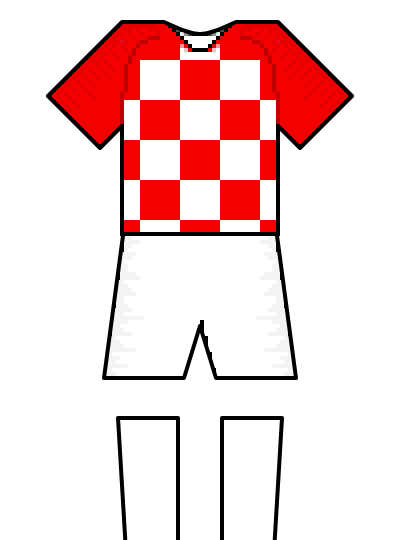
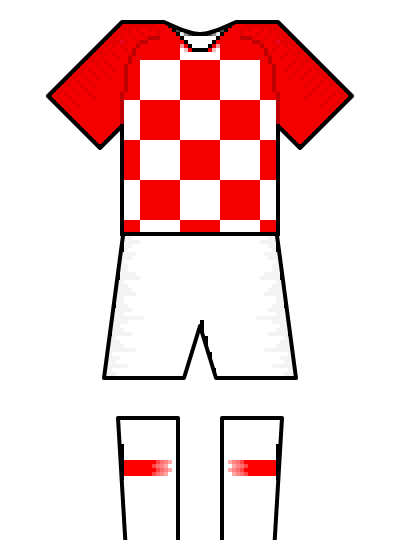
Place shorter socks patterns at the top of the socks area, as the template does
Claude-Session: https://claude.ai/code/session_019gbuJGYaZ4pQBD5fAWM6oT

Changed region(s): [[0.57, 0.8296, 0.72, 0.8889], [0.3, 0.8296, 0.42, 0.8889]]

diff --git a/public/data/kits.js b/public/data/kits.js
@@ -39,7 +39,7 @@ window.HALFTIME_KITS = [
     matches: ["1930-world-cup-final"],
     coloursSource: "Wikipedia, \"1930 FIFA World Cup final\" (revision 1370476710), CC BY-SA 4.0",
     coloursUrl: "https://en.wikipedia.org/w/index.php?title=1930_FIFA_World_Cup_final&oldid=1370476710",
-    illustration: { file: "argentina-1930.png", credit: "Drawn after the kit shown in Wikipedia’s \"1930 FIFA World Cup final\" article. Pattern pictures from Wikimedia Commons: Kit left arm white stripes.png (CC BY-SA 3.0); Kit body 3stripesonwhite.png (CC BY-SA 3.0); Kit right arm white stripes.png (CC BY-SA 3.0). Outline: Wikimedia Commons kit template drawings." }
+    illustration: { file: "argentina-1930.png", credit: "Drawn after the kit shown in Wikipedia’s \"1930 FIFA World Cup final\" article. Pattern pictures from Wikimedia Commons: Kit left arm white stripes.png (CC BY-SA 3.0); Kit body 3stripesonwhite.png (CC BY-SA 3.0); Kit right arm white stripes.png (CC BY-SA 3.0); Kit socks white bands.png (CC BY-SA 3.0, VEO15). Outline: Wikimedia Commons kit template drawings." }
   },
   {
     id: "uruguay-1930",
@@ -54,7 +54,7 @@ window.HALFTIME_KITS = [
     matches: ["1930-world-cup-final"],
     coloursSource: "Wikipedia, \"1930 FIFA World Cup final\" (revision 1370476710), CC BY-SA 4.0",
     coloursUrl: "https://en.wikipedia.org/w/index.php?title=1930_FIFA_World_Cup_final&oldid=1370476710",
-    illustration: { file: "uruguay-1930.png", credit: "Drawn after the kit shown in Wikipedia’s \"1930 FIFA World Cup final\" article. Pattern pictures from Wikimedia Commons: Kit left arm whiteborder.png (CC BY-SA 3.0); Kit body collarwhite laced.png (CC BY-SA 4.0, Fma12); Kit right arm whiteborder.png (CC BY-SA 3.0). Outline: Wikimedia Commons kit template drawings." }
+    illustration: { file: "uruguay-1930.png", credit: "Drawn after the kit shown in Wikipedia’s \"1930 FIFA World Cup final\" article. Pattern pictures from Wikimedia Commons: Kit left arm whiteborder.png (CC BY-SA 3.0); Kit body collarwhite laced.png (CC BY-SA 4.0, Fma12); Kit right arm whiteborder.png (CC BY-SA 3.0); Kit socks white bands.png (CC BY-SA 3.0, VEO15). Outline: Wikimedia Commons kit template drawings." }
   },
   {
     id: "czechoslovakia-1934",
@@ -84,7 +84,7 @@ window.HALFTIME_KITS = [
     matches: ["1934-world-cup-final"],
     coloursSource: "Wikipedia, \"1934 FIFA World Cup final\" (revision 1370476727), CC BY-SA 4.0",
     coloursUrl: "https://en.wikipedia.org/w/index.php?title=1934_FIFA_World_Cup_final&oldid=1370476727",
-    illustration: { file: "italy-1934.png", credit: "Drawn after the kit shown in Wikipedia’s \"1934 FIFA World Cup final\" article. Pattern pictures from Wikimedia Commons: Kit left arm Italia1927-1943h.png (CC BY-SA 4.0, Romano1979); Kit body colour vneck.png (CC0, KoreanDragon); Kit right arm Italia1927-1943h.png (CC BY-SA 4.0, Romano1979); Kit shorts Italiah.png (CC BY-SA 4.0, Romano1979). Outline: Wikimedia Commons kit template drawings." }
+    illustration: { file: "italy-1934.png", credit: "Drawn after the kit shown in Wikipedia’s \"1934 FIFA World Cup final\" article. Pattern pictures from Wikimedia Commons: Kit left arm Italia1927-1943h.png (CC BY-SA 4.0, Romano1979); Kit body colour vneck.png (CC0, KoreanDragon); Kit right arm Italia1927-1943h.png (CC BY-SA 4.0, Romano1979); Kit shorts Italiah.png (CC BY-SA 4.0, Romano1979); Kit socks Italia1927-1943h.png (CC BY-SA 4.0, Romano1979). Outline: Wikimedia Commons kit template drawings." }
   },
   {
     id: "hungary-1938",
@@ -114,7 +114,7 @@ window.HALFTIME_KITS = [
     matches: ["1938-world-cup-final"],
     coloursSource: "Wikipedia, \"1938 FIFA World Cup final\" (revision 1370476759), CC BY-SA 4.0",
     coloursUrl: "https://en.wikipedia.org/w/index.php?title=1938_FIFA_World_Cup_final&oldid=1370476759",
-    illustration: { file: "italy-1938.png", credit: "Drawn after the kit shown in Wikipedia’s \"1938 FIFA World Cup final\" article. Pattern pictures from Wikimedia Commons: Kit left arm Italia1927-1943h.png (CC BY-SA 4.0, Romano1979); Kit body colour vneck.png (CC0, KoreanDragon); Kit right arm Italia1927-1943h.png (CC BY-SA 4.0, Romano1979); Kit shorts Italiah.png (CC BY-SA 4.0, Romano1979). Outline: Wikimedia Commons kit template drawings." }
+    illustration: { file: "italy-1938.png", credit: "Drawn after the kit shown in Wikipedia’s \"1938 FIFA World Cup final\" article. Pattern pictures from Wikimedia Commons: Kit left arm Italia1927-1943h.png (CC BY-SA 4.0, Romano1979); Kit body colour vneck.png (CC0, KoreanDragon); Kit right arm Italia1927-1943h.png (CC BY-SA 4.0, Romano1979); Kit shorts Italiah.png (CC BY-SA 4.0, Romano1979); Kit socks Italia1927-1943h.png (CC BY-SA 4.0, Romano1979). Outline: Wikimedia Commons kit template drawings." }
   },
   {
     id: "brazil-1950",
@@ -144,7 +144,7 @@ window.HALFTIME_KITS = [
     matches: ["1950-world-cup-final"],
     coloursSource: "Wikipedia, \"Uruguay v Brazil (1950 FIFA World Cup)\" (revision 1370476799), CC BY-SA 4.0",
     coloursUrl: "https://en.wikipedia.org/w/index.php?title=Uruguay_v_Brazil_(1950_FIFA_World_Cup)&oldid=1370476799",
-    illustration: { file: "uruguay-1950.png", credit: "Drawn after the kit shown in Wikipedia’s \"Uruguay v Brazil (1950 FIFA World Cup)\" article. Pattern pictures from Wikimedia Commons: Kit left arm whiteborder.png (CC BY-SA 3.0); Kit body vneckwhite.png (Public domain, No machine-readable author provided.); Kit right arm whiteborder.png (CC BY-SA 3.0). Outline: Wikimedia Commons kit template drawings." }
+    illustration: { file: "uruguay-1950.png", credit: "Drawn after the kit shown in Wikipedia’s \"Uruguay v Brazil (1950 FIFA World Cup)\" article. Pattern pictures from Wikimedia Commons: Kit left arm whiteborder.png (CC BY-SA 3.0); Kit body vneckwhite.png (Public domain, No machine-readable author provided.); Kit right arm whiteborder.png (CC BY-SA 3.0); Kit socks skybluetop.png (CC BY-SA 3.0, MEDM). Outline: Wikimedia Commons kit template drawings." }
   },
   {
     id: "hungary-1954",
@@ -159,7 +159,7 @@ window.HALFTIME_KITS = [
     matches: ["1954-world-cup-final"],
     coloursSource: "Wikipedia, \"1954 FIFA World Cup final\" (revision 1373704546), CC BY-SA 4.0",
     coloursUrl: "https://en.wikipedia.org/w/index.php?title=1954_FIFA_World_Cup_final&oldid=1373704546",
-    illustration: { file: "hungary-1954.png", credit: "Drawn after the kit shown in Wikipedia’s \"1954 FIFA World Cup final\" article. Pattern pictures from Wikimedia Commons: Kit body hun 1949 1956 home.png (CC BY-SA 3.0, Brgesto). Outline: Wikimedia Commons kit template drawings." }
+    illustration: { file: "hungary-1954.png", credit: "Drawn after the kit shown in Wikipedia’s \"1954 FIFA World Cup final\" article. Pattern pictures from Wikimedia Commons: Kit body hun 1949 1956 home.png (CC BY-SA 3.0, Brgesto); Kit socks whitestripe.png (CC BY-SA 3.0, El_Pollo_Diablo). Outline: Wikimedia Commons kit template drawings." }
   },
   {
     id: "west-germany-1954",
@@ -174,7 +174,7 @@ window.HALFTIME_KITS = [
     matches: ["1954-world-cup-final"],
     coloursSource: "Wikipedia, \"1954 FIFA World Cup final\" (revision 1373704546), CC BY-SA 4.0",
     coloursUrl: "https://en.wikipedia.org/w/index.php?title=1954_FIFA_World_Cup_final&oldid=1373704546",
-    illustration: { file: "west-germany-1954.png", credit: "Drawn after the kit shown in Wikipedia’s \"1954 FIFA World Cup final\" article. Pattern pictures from Wikimedia Commons: Kit left arm blackborder.png (Public domain, No machine-readable author provided.); Kit body ger54h.png (CC BY-SA 4.0, KoreanDragon); Kit right arm blackborder.png (Public domain, No machine-readable author provided.). Outline: Wikimedia Commons kit template drawings." }
+    illustration: { file: "west-germany-1954.png", credit: "Drawn after the kit shown in Wikipedia’s \"1954 FIFA World Cup final\" article. Pattern pictures from Wikimedia Commons: Kit left arm blackborder.png (Public domain, No machine-readable author provided.); Kit body ger54h.png (CC BY-SA 4.0, KoreanDragon); Kit right arm blackborder.png (Public domain, No machine-readable author provided.); Kit socks band white.png (CC BY-SA 3.0, Bruno-ban). Outline: Wikimedia Commons kit template drawings." }
   },
   {
     id: "brazil-1958",
@@ -204,7 +204,7 @@ window.HALFTIME_KITS = [
     matches: ["1958-world-cup-final"],
     coloursSource: "Wikipedia, \"1958 FIFA World Cup final\" (revision 1370476889), CC BY-SA 4.0",
     coloursUrl: "https://en.wikipedia.org/w/index.php?title=1958_FIFA_World_Cup_final&oldid=1370476889",
-    illustration: { file: "sweden-1958.png", credit: "Drawn after the kit shown in Wikipedia’s \"1958 FIFA World Cup final\" article. Pattern pictures from Wikimedia Commons: Kit body swe58h.png (CC0, KoreanDragon). Outline: Wikimedia Commons kit template drawings." }
+    illustration: { file: "sweden-1958.png", credit: "Drawn after the kit shown in Wikipedia’s \"1958 FIFA World Cup final\" article. Pattern pictures from Wikimedia Commons: Kit body swe58h.png (CC0, KoreanDragon); Kit socks yellowtop.png (CC BY-SA 3.0, Luxusfrosch). Outline: Wikimedia Commons kit template drawings." }
   },
   {
     id: "brazil-1962",
@@ -294,7 +294,7 @@ window.HALFTIME_KITS = [
     matches: ["1970-world-cup-final"],
     coloursSource: "Wikipedia, \"1970 FIFA World Cup final\" (revision 1378370769), CC BY-SA 4.0",
     coloursUrl: "https://en.wikipedia.org/w/index.php?title=1970_FIFA_World_Cup_final&oldid=1378370769",
-    illustration: { file: "italy-1970.png", credit: "Drawn after the kit shown in Wikipedia’s \"1970 FIFA World Cup final\" article. Pattern pictures from Wikimedia Commons: Kit body ita70h.png (CC0, KoreanDragon). Outline: Wikimedia Commons kit template drawings." }
+    illustration: { file: "italy-1970.png", credit: "Drawn after the kit shown in Wikipedia’s \"1970 FIFA World Cup final\" article. Pattern pictures from Wikimedia Commons: Kit body ita70h.png (CC0, KoreanDragon); Kit socks 2whitestripes.png (CC BY-SA 3.0, El_Pollo_Diablo). Outline: Wikimedia Commons kit template drawings." }
   },
   {
     id: "netherlands-1974",
@@ -309,7 +309,7 @@ window.HALFTIME_KITS = [
     matches: ["1974-world-cup-final"],
     coloursSource: "Wikipedia, \"1974 FIFA World Cup final\" (revision 1376222563), CC BY-SA 4.0",
     coloursUrl: "https://en.wikipedia.org/w/index.php?title=1974_FIFA_World_Cup_final&oldid=1376222563",
-    illustration: { file: "netherlands-1974.png", credit: "Drawn after the kit shown in Wikipedia’s \"1974 FIFA World Cup final\" article. Pattern pictures from Wikimedia Commons: Kit left arm netherlands80h.png (CC BY-SA 4.0, Zotteteen1); Kit body ned74h.png (CC0, KoreanDragon); Kit right arm netherlands80h.png (CC BY-SA 4.0, Zotteteen1); Kit shorts adidasonwhite.png (Public domain, Kanchelskis). Outline: Wikimedia Commons kit template drawings." }
+    illustration: { file: "netherlands-1974.png", credit: "Drawn after the kit shown in Wikipedia’s \"1974 FIFA World Cup final\" article. Pattern pictures from Wikimedia Commons: Kit left arm netherlands80h.png (CC BY-SA 4.0, Zotteteen1); Kit body ned74h.png (CC0, KoreanDragon); Kit right arm netherlands80h.png (CC BY-SA 4.0, Zotteteen1); Kit shorts adidasonwhite.png (Public domain, Kanchelskis); Kit socks color 3 stripes black.png (CC BY-SA 3.0, Bruno-ban). Outline: Wikimedia Commons kit template drawings." }
   },
   {
     id: "west-germany-1974",
@@ -339,7 +339,7 @@ window.HALFTIME_KITS = [
     matches: ["1978-world-cup-final"],
     coloursSource: "Wikipedia, \"1978 FIFA World Cup final\" (revision 1376299383), CC BY-SA 4.0",
     coloursUrl: "https://en.wikipedia.org/w/index.php?title=1978_FIFA_World_Cup_final&oldid=1376299383",
-    illustration: { file: "argentina-1978.png", credit: "Drawn after the kit shown in Wikipedia’s \"1978 FIFA World Cup final\" article. Pattern pictures from Wikimedia Commons: Kit left arm arg7879h.png (CC BY-SA 4.0, Lucas.st); Kit body arg7879h.png (CC BY-SA 4.0, Lucas.st); Kit right arm arg7879h.png (CC BY-SA 4.0, Lucas.st); Kit shorts arg7879h.png (CC BY-SA 4.0, Lucas.st). Outline: Wikimedia Commons kit template drawings." }
+    illustration: { file: "argentina-1978.png", credit: "Drawn after the kit shown in Wikipedia’s \"1978 FIFA World Cup final\" article. Pattern pictures from Wikimedia Commons: Kit left arm arg7879h.png (CC BY-SA 4.0, Lucas.st); Kit body arg7879h.png (CC BY-SA 4.0, Lucas.st); Kit right arm arg7879h.png (CC BY-SA 4.0, Lucas.st); Kit shorts arg7879h.png (CC BY-SA 4.0, Lucas.st); Kit socks arg78h.png (CC BY-SA 4.0, Paraquepore). Outline: Wikimedia Commons kit template drawings." }
   },
   {
     id: "netherlands-1978",
@@ -354,7 +354,7 @@ window.HALFTIME_KITS = [
     matches: ["1978-world-cup-final"],
     coloursSource: "Wikipedia, \"1978 FIFA World Cup final\" (revision 1376299383), CC BY-SA 4.0",
     coloursUrl: "https://en.wikipedia.org/w/index.php?title=1978_FIFA_World_Cup_final&oldid=1376299383",
-    illustration: { file: "netherlands-1978.png", credit: "Drawn after the kit shown in Wikipedia’s \"1978 FIFA World Cup final\" article. Pattern pictures from Wikimedia Commons: Kit left arm netherlands80h.png (CC BY-SA 4.0, Zotteteen1); Kit body netherlands80h.png (CC BY-SA 4.0, Zotteteen1); Kit right arm netherlands80h.png (CC BY-SA 4.0, Zotteteen1); Kit shorts adidasonwhite.png (Public domain, Kanchelskis). Outline: Wikimedia Commons kit template drawings." }
+    illustration: { file: "netherlands-1978.png", credit: "Drawn after the kit shown in Wikipedia’s \"1978 FIFA World Cup final\" article. Pattern pictures from Wikimedia Commons: Kit left arm netherlands80h.png (CC BY-SA 4.0, Zotteteen1); Kit body netherlands80h.png (CC BY-SA 4.0, Zotteteen1); Kit right arm netherlands80h.png (CC BY-SA 4.0, Zotteteen1); Kit shorts adidasonwhite.png (Public domain, Kanchelskis); Kit socks netherlands80h.png (CC BY-SA 4.0, Zotteteen1). Outline: Wikimedia Commons kit template drawings." }
   },
   {
     id: "italy-1982",
@@ -369,7 +369,7 @@ window.HALFTIME_KITS = [
     matches: ["1982-world-cup-final"],
     coloursSource: "Wikipedia, \"1982 FIFA World Cup final\" (revision 1376321424), CC BY-SA 4.0; colour read from the Commons picture \"Kit body ita82.png\" (CC BY-SA 3.0)",
     coloursUrl: "https://en.wikipedia.org/w/index.php?title=1982_FIFA_World_Cup_final&oldid=1376321424",
-    illustration: { file: "italy-1982.png", credit: "Drawn after the kit shown in Wikipedia’s \"1982 FIFA World Cup final\" article. Pattern pictures from Wikimedia Commons: Kit left arm italy1982-90.png (CC BY-SA 3.0, Radis2); Kit body ita82.png (CC BY-SA 3.0, KoreanDragon); Kit right arm italy1982-90.png (CC BY-SA 3.0, Radis2). Outline: Wikimedia Commons kit template drawings." }
+    illustration: { file: "italy-1982.png", credit: "Drawn after the kit shown in Wikipedia’s \"1982 FIFA World Cup final\" article. Pattern pictures from Wikimedia Commons: Kit left arm italy1982-90.png (CC BY-SA 3.0, Radis2); Kit body ita82.png (CC BY-SA 3.0, KoreanDragon); Kit right arm italy1982-90.png (CC BY-SA 3.0, Radis2); Kit socks italia cm1994.png (CC BY-SA 3.0, MEDM). Outline: Wikimedia Commons kit template drawings." }
   },
   {
     id: "west-germany-1982",
@@ -384,7 +384,7 @@ window.HALFTIME_KITS = [
     matches: ["1982-world-cup-final"],
     coloursSource: "Wikipedia, \"1982 FIFA World Cup final\" (revision 1376321424), CC BY-SA 4.0",
     coloursUrl: "https://en.wikipedia.org/w/index.php?title=1982_FIFA_World_Cup_final&oldid=1376321424",
-    illustration: { file: "west-germany-1982.png", credit: "Drawn after the kit shown in Wikipedia’s \"1982 FIFA World Cup final\" article. Pattern pictures from Wikimedia Commons: Kit left arm westgermany1980.png (CC BY-SA 3.0, Zotteteen1); Kit body westgermany1980.png (CC BY-SA 3.0, Zotteteen1); Kit right arm westgermany1980.png (CC BY-SA 3.0, Zotteteen1). Outline: Wikimedia Commons kit template drawings." }
+    illustration: { file: "west-germany-1982.png", credit: "Drawn after the kit shown in Wikipedia’s \"1982 FIFA World Cup final\" article. Pattern pictures from Wikimedia Commons: Kit left arm westgermany1980.png (CC BY-SA 3.0, Zotteteen1); Kit body westgermany1980.png (CC BY-SA 3.0, Zotteteen1); Kit right arm westgermany1980.png (CC BY-SA 3.0, Zotteteen1); Kit socks color 3 stripes black.png (CC BY-SA 3.0, Bruno-ban). Outline: Wikimedia Commons kit template drawings." }
   },
   {
     id: "argentina-1986",
@@ -399,7 +399,7 @@ window.HALFTIME_KITS = [
     matches: ["1986-world-cup-final"],
     coloursSource: "Wikipedia, \"1986 FIFA World Cup final\" (revision 1378321402), CC BY-SA 4.0",
     coloursUrl: "https://en.wikipedia.org/w/index.php?title=1986_FIFA_World_Cup_final&oldid=1378321402",
-    illustration: { file: "argentina-1986.png", credit: "Drawn after the kit shown in Wikipedia’s \"1986 FIFA World Cup final\" article. Pattern pictures from Wikimedia Commons: Kit left arm argentina1986.png (CC BY-SA 3.0, Zotteteen1); Kit body argentina1986.png (CC BY-SA 3.0, Zotteteen1); Kit right arm argentina1986.png (CC BY-SA 3.0, Zotteteen1); Kit shorts argentina1986.png (CC BY-SA 3.0, Zotteteen1). Outline: Wikimedia Commons kit template drawings." }
+    illustration: { file: "argentina-1986.png", credit: "Drawn after the kit shown in Wikipedia’s \"1986 FIFA World Cup final\" article. Pattern pictures from Wikimedia Commons: Kit left arm argentina1986.png (CC BY-SA 3.0, Zotteteen1); Kit body argentina1986.png (CC BY-SA 3.0, Zotteteen1); Kit right arm argentina1986.png (CC BY-SA 3.0, Zotteteen1); Kit shorts argentina1986.png (CC BY-SA 3.0, Zotteteen1); Kit socks argentina1986.png (CC BY-SA 3.0, Zotteteen1). Outline: Wikimedia Commons kit template drawings." }
   },
   {
     id: "west-germany-1986",
@@ -414,7 +414,7 @@ window.HALFTIME_KITS = [
     matches: ["1986-world-cup-final"],
     coloursSource: "Wikipedia, \"1986 FIFA World Cup final\" (revision 1378321402), CC BY-SA 4.0",
     coloursUrl: "https://en.wikipedia.org/w/index.php?title=1986_FIFA_World_Cup_final&oldid=1378321402",
-    illustration: { file: "west-germany-1986.png", credit: "Drawn after the kit shown in Wikipedia’s \"1986 FIFA World Cup final\" article. Pattern pictures from Wikimedia Commons: Kit left arm shoulder stripes white stripes.png (Public domain, Chandler); Kit body westgermany1986.png (CC BY-SA 3.0, Zotteteen1); Kit right arm shoulder stripes white stripes.png (Public domain, Chandler). Outline: Wikimedia Commons kit template drawings." }
+    illustration: { file: "west-germany-1986.png", credit: "Drawn after the kit shown in Wikipedia’s \"1986 FIFA World Cup final\" article. Pattern pictures from Wikimedia Commons: Kit left arm shoulder stripes white stripes.png (Public domain, Chandler); Kit body westgermany1986.png (CC BY-SA 3.0, Zotteteen1); Kit right arm shoulder stripes white stripes.png (Public domain, Chandler); Kit socks 3 stripes white.png (Public domain, Dragases). Outline: Wikimedia Commons kit template drawings." }
   },
   {
     id: "argentina-1990",
@@ -429,7 +429,7 @@ window.HALFTIME_KITS = [
     matches: ["1990-world-cup-final"],
     coloursSource: "Wikipedia, \"1990 FIFA World Cup final\" (revision 1376676631), CC BY-SA 4.0",
     coloursUrl: "https://en.wikipedia.org/w/index.php?title=1990_FIFA_World_Cup_final&oldid=1376676631",
-    illustration: { file: "argentina-1990.png", credit: "Drawn after the kit shown in Wikipedia’s \"1990 FIFA World Cup final\" article. Pattern pictures from Wikimedia Commons: Kit left arm argentina1990a.png (CC BY-SA 3.0, Zotteteen1); Kit body argentina1990a.png (CC BY-SA 3.0, Zotteteen1); Kit right arm argentina1990a.png (CC BY-SA 3.0, Zotteteen1). Outline: Wikimedia Commons kit template drawings." }
+    illustration: { file: "argentina-1990.png", credit: "Drawn after the kit shown in Wikipedia’s \"1990 FIFA World Cup final\" article. Pattern pictures from Wikimedia Commons: Kit left arm argentina1990a.png (CC BY-SA 3.0, Zotteteen1); Kit body argentina1990a.png (CC BY-SA 3.0, Zotteteen1); Kit right arm argentina1990a.png (CC BY-SA 3.0, Zotteteen1); Kit socks color 3 stripes white.png (Public domain, Dragases). Outline: Wikimedia Commons kit template drawings." }
   },
   {
     id: "west-germany-1990",
@@ -444,7 +444,7 @@ window.HALFTIME_KITS = [
     matches: ["1990-world-cup-final"],
     coloursSource: "Wikipedia, \"1990 FIFA World Cup final\" (revision 1376676631), CC BY-SA 4.0",
     coloursUrl: "https://en.wikipedia.org/w/index.php?title=1990_FIFA_World_Cup_final&oldid=1376676631",
-    illustration: { file: "west-germany-1990.png", credit: "Drawn after the kit shown in Wikipedia’s \"1990 FIFA World Cup final\" article. Pattern pictures from Wikimedia Commons: Kit left arm ger90h.png (CC BY-SA 4.0, Quenombre123); Kit body westgermany1990.png (CC BY-SA 4.0, Quenombre123); Kit right arm ger90h.png (CC BY-SA 4.0, Quenombre123); Kit shorts ger90h.png (CC BY-SA 4.0, Quenombre123). Outline: Wikimedia Commons kit template drawings." }
+    illustration: { file: "west-germany-1990.png", credit: "Drawn after the kit shown in Wikipedia’s \"1990 FIFA World Cup final\" article. Pattern pictures from Wikimedia Commons: Kit left arm ger90h.png (CC BY-SA 4.0, Quenombre123); Kit body westgermany1990.png (CC BY-SA 4.0, Quenombre123); Kit right arm ger90h.png (CC BY-SA 4.0, Quenombre123); Kit shorts ger90h.png (CC BY-SA 4.0, Quenombre123); Kit socks color 3 stripes black.png (CC BY-SA 3.0, Bruno-ban). Outline: Wikimedia Commons kit template drawings." }
   },
   {
     id: "brazil-1994",
@@ -474,7 +474,7 @@ window.HALFTIME_KITS = [
     matches: ["1994-world-cup-final"],
     coloursSource: "Wikipedia, \"1994 FIFA World Cup final\" (revision 1370814532), CC BY-SA 4.0",
     coloursUrl: "https://en.wikipedia.org/w/index.php?title=1994_FIFA_World_Cup_final&oldid=1370814532",
-    illustration: { file: "italy-1994.png", credit: "Drawn after the kit shown in Wikipedia’s \"1994 FIFA World Cup final\" article. Pattern pictures from Wikimedia Commons: Kit left arm ita94h1.png (CC BY-SA 4.0, Hurfer); Kit body ita94h1.png (CC BY-SA 4.0, Hurfer); Kit right arm ita94h1.png (CC BY-SA 4.0, Hurfer). Outline: Wikimedia Commons kit template drawings." }
+    illustration: { file: "italy-1994.png", credit: "Drawn after the kit shown in Wikipedia’s \"1994 FIFA World Cup final\" article. Pattern pictures from Wikimedia Commons: Kit left arm ita94h1.png (CC BY-SA 4.0, Hurfer); Kit body ita94h1.png (CC BY-SA 4.0, Hurfer); Kit right arm ita94h1.png (CC BY-SA 4.0, Hurfer); Kit socks ita94h1.png (CC BY-SA 4.0, Hurfer). Outline: Wikimedia Commons kit template drawings." }
   },
   {
     id: "brazil-1998",
@@ -504,7 +504,7 @@ window.HALFTIME_KITS = [
     matches: ["1998-world-cup-final"],
     coloursSource: "Wikipedia, \"1998 FIFA World Cup final\" (revision 1370477312), CC BY-SA 4.0",
     coloursUrl: "https://en.wikipedia.org/w/index.php?title=1998_FIFA_World_Cup_final&oldid=1370477312",
-    illustration: { file: "france-1998.png", credit: "Drawn after the kit shown in Wikipedia’s \"1998 FIFA World Cup final\" article. Pattern pictures from Wikimedia Commons: Kit left arm france1998h.png (CC BY-SA 4.0, Zotteteen1); Kit body france1998h.png (CC BY-SA 4.0, Zotteteen1); Kit right arm france1998h.png (CC BY-SA 4.0, Zotteteen1); Kit shorts france1998a.png (CC BY-SA 4.0, Zotteteen1). Outline: Wikimedia Commons kit template drawings." }
+    illustration: { file: "france-1998.png", credit: "Drawn after the kit shown in Wikipedia’s \"1998 FIFA World Cup final\" article. Pattern pictures from Wikimedia Commons: Kit left arm france1998h.png (CC BY-SA 4.0, Zotteteen1); Kit body france1998h.png (CC BY-SA 4.0, Zotteteen1); Kit right arm france1998h.png (CC BY-SA 4.0, Zotteteen1); Kit shorts france1998a.png (CC BY-SA 4.0, Zotteteen1); Kit socks fra98h.png (CC BY-SA 4.0, Yoyo697). Outline: Wikimedia Commons kit template drawings." }
   },
   {
     id: "brazil-2002",
@@ -579,7 +579,7 @@ window.HALFTIME_KITS = [
     matches: ["2010-world-cup-final"],
     coloursSource: "Wikipedia, \"2010 FIFA World Cup final\" (revision 1370477459), CC BY-SA 4.0",
     coloursUrl: "https://en.wikipedia.org/w/index.php?title=2010_FIFA_World_Cup_final&oldid=1370477459",
-    illustration: { file: "netherlands-2010.png", credit: "Drawn after the kit shown in Wikipedia’s \"2010 FIFA World Cup final\" article. Pattern pictures from Wikimedia Commons: Kit left arm ned10h.png (CC BY-SA 3.0, Bruno-ban); Kit body ned10H.png (CC BY-SA 3.0, Bruno-ban); Kit right arm ned10h.png (CC BY-SA 3.0, Bruno-ban); Kit shorts ned10H.png (CC BY-SA 4.0, Abdul Qayyum Ahmad). Outline: Wikimedia Commons kit template drawings." }
+    illustration: { file: "netherlands-2010.png", credit: "Drawn after the kit shown in Wikipedia’s \"2010 FIFA World Cup final\" article. Pattern pictures from Wikimedia Commons: Kit left arm ned10h.png (CC BY-SA 3.0, Bruno-ban); Kit body ned10H.png (CC BY-SA 3.0, Bruno-ban); Kit right arm ned10h.png (CC BY-SA 3.0, Bruno-ban); Kit shorts ned10H.png (CC BY-SA 4.0, Abdul Qayyum Ahmad); Kit socks band black.png (CC BY-SA 3.0, Bruno-ban). Outline: Wikimedia Commons kit template drawings." }
   },
   {
     id: "spain-2010",
@@ -639,7 +639,7 @@ window.HALFTIME_KITS = [
     matches: ["2018-world-cup-final"],
     coloursSource: "Wikipedia, \"2018 FIFA World Cup final\" (revision 1375926597), CC BY-SA 4.0",
     coloursUrl: "https://en.wikipedia.org/w/index.php?title=2018_FIFA_World_Cup_final&oldid=1375926597",
-    illustration: { file: "croatia-2018.png", credit: "Drawn after the kit shown in Wikipedia’s \"2018 FIFA World Cup final\" article. Pattern pictures from Wikimedia Commons: Kit left arm cro18H.png (CC BY-SA 4.0, Zotteteen1); Kit body cro18ho.png (CC BY-SA 4.0, S); Kit right arm cro18H.png (CC BY-SA 4.0, Zotteteen1); Kit shorts cro18h.png (CC BY-SA 4.0, Eduardo_Stosick). Outline: Wikimedia Commons kit template drawings." }
+    illustration: { file: "croatia-2018.png", credit: "Drawn after the kit shown in Wikipedia’s \"2018 FIFA World Cup final\" article. Pattern pictures from Wikimedia Commons: Kit left arm cro18H.png (CC BY-SA 4.0, Zotteteen1); Kit body cro18ho.png (CC BY-SA 4.0, S); Kit right arm cro18H.png (CC BY-SA 4.0, Zotteteen1); Kit shorts cro18h.png (CC BY-SA 4.0, Eduardo_Stosick); Kit socks pol18H.png (CC BY-SA 4.0, JonasBR). Outline: Wikimedia Commons kit template drawings." }
   },
   {
     id: "france-2018",
@@ -654,7 +654,7 @@ window.HALFTIME_KITS = [
     matches: ["2018-world-cup-final"],
     coloursSource: "Wikipedia, \"2018 FIFA World Cup final\" (revision 1375926597), CC BY-SA 4.0",
     coloursUrl: "https://en.wikipedia.org/w/index.php?title=2018_FIFA_World_Cup_final&oldid=1375926597",
-    illustration: { file: "france-2018.png", credit: "Drawn after the kit shown in Wikipedia’s \"2018 FIFA World Cup final\" article. Pattern pictures from Wikimedia Commons: Kit left arm frank18h.png (CC BY-SA 4.0, Zotteteen1); Kit body fra18ho.png (CC BY-SA 4.0, Zotteteen1); Kit right arm frank18h.png (CC BY-SA 4.0, Zotteteen1); Kit shorts fra18a.png (CC BY-SA 4.0, Flix11). Outline: Wikimedia Commons kit template drawings." }
+    illustration: { file: "france-2018.png", credit: "Drawn after the kit shown in Wikipedia’s \"2018 FIFA World Cup final\" article. Pattern pictures from Wikimedia Commons: Kit left arm frank18h.png (CC BY-SA 4.0, Zotteteen1); Kit body fra18ho.png (CC BY-SA 4.0, Zotteteen1); Kit right arm frank18h.png (CC BY-SA 4.0, Zotteteen1); Kit shorts fra18a.png (CC BY-SA 4.0, Flix11); Kit socks fra18H2.png (CC BY-SA 4.0, Flix11). Outline: Wikimedia Commons kit template drawings." }
   },
   {
     id: "england-2021",
@@ -699,7 +699,7 @@ window.HALFTIME_KITS = [
     matches: ["2022-world-cup-final"],
     coloursSource: "Wikipedia, \"2022 FIFA World Cup final\" (revision 1377947686), CC BY-SA 4.0",
     coloursUrl: "https://en.wikipedia.org/w/index.php?title=2022_FIFA_World_Cup_final&oldid=1377947686",
-    illustration: { file: "argentina-2022.png", credit: "Drawn after the kit shown in Wikipedia’s \"2022 FIFA World Cup final\" article. Pattern pictures from Wikimedia Commons: Kit left arm arg22h.png (CC BY-SA 4.0, Mat); Kit body arg22H.png (CC BY-SA 4.0, Mat); Kit right arm arg22h.png (CC BY-SA 4.0, Mat); Kit shorts arg22h2.png (CC BY-SA 4.0, JonasBR). Outline: Wikimedia Commons kit template drawings." }
+    illustration: { file: "argentina-2022.png", credit: "Drawn after the kit shown in Wikipedia’s \"2022 FIFA World Cup final\" article. Pattern pictures from Wikimedia Commons: Kit left arm arg22h.png (CC BY-SA 4.0, Mat); Kit body arg22H.png (CC BY-SA 4.0, Mat); Kit right arm arg22h.png (CC BY-SA 4.0, Mat); Kit shorts arg22h2.png (CC BY-SA 4.0, JonasBR); Kit socks arg22h.png (CC BY-SA 4.0, Mateo_sou). Outline: Wikimedia Commons kit template drawings." }
   },
   {
     id: "france-2022",
@@ -714,7 +714,7 @@ window.HALFTIME_KITS = [
     matches: ["2022-world-cup-final"],
     coloursSource: "Wikipedia, \"2022 FIFA World Cup final\" (revision 1377947686), CC BY-SA 4.0",
     coloursUrl: "https://en.wikipedia.org/w/index.php?title=2022_FIFA_World_Cup_final&oldid=1377947686",
-    illustration: { file: "france-2022.png", credit: "Drawn after the kit shown in Wikipedia’s \"2022 FIFA World Cup final\" article. Pattern pictures from Wikimedia Commons: Kit left arm fra22h.png (CC BY-SA 4.0, Mat); Kit body fra22H.png (CC BY-SA 4.0, Mat); Kit right arm fra22h.png (CC BY-SA 4.0, Mat); Kit shorts fra22h2.png (CC BY-SA 4.0, Yoyo697). Outline: Wikimedia Commons kit template drawings." }
+    illustration: { file: "france-2022.png", credit: "Drawn after the kit shown in Wikipedia’s \"2022 FIFA World Cup final\" article. Pattern pictures from Wikimedia Commons: Kit left arm fra22h.png (CC BY-SA 4.0, Mat); Kit body fra22H.png (CC BY-SA 4.0, Mat); Kit right arm fra22h.png (CC BY-SA 4.0, Mat); Kit shorts fra22h2.png (CC BY-SA 4.0, Yoyo697); Kit socks fra22h2.png (CC BY-SA 4.0, Yoyo697). Outline: Wikimedia Commons kit template drawings." }
   },
   {
     id: "england-2024",
@@ -729,7 +729,7 @@ window.HALFTIME_KITS = [
     matches: ["2024-euro-final"],
     coloursSource: "Wikipedia, \"UEFA Euro 2024 final\" (revision 1374029048), CC BY-SA 4.0",
     coloursUrl: "https://en.wikipedia.org/w/index.php?title=UEFA_Euro_2024_final&oldid=1374029048",
-    illustration: { file: "england-2024.png", credit: "Drawn after the kit shown in Wikipedia’s \"UEFA Euro 2024 final\" article. Pattern pictures from Wikimedia Commons: Kit left arm eng24h.png (CC BY 4.0, Mat); Kit body eng24h.png (CC BY 4.0, Mat); Kit right arm eng24h.png (CC BY 4.0, Mat); Kit shorts eng24h2.png (CC BY 4.0, Mateo_sou). Outline: Wikimedia Commons kit template drawings." }
+    illustration: { file: "england-2024.png", credit: "Drawn after the kit shown in Wikipedia’s \"UEFA Euro 2024 final\" article. Pattern pictures from Wikimedia Commons: Kit left arm eng24h.png (CC BY 4.0, Mat); Kit body eng24h.png (CC BY 4.0, Mat); Kit right arm eng24h.png (CC BY 4.0, Mat); Kit shorts eng24h2.png (CC BY 4.0, Mateo_sou); Kit socks eng24h.png (CC0, Yoyo697). Outline: Wikimedia Commons kit template drawings." }
   },
   {
     id: "spain-2024",

diff --git a/tools/kit-art.js b/tools/kit-art.js
@@ -62,7 +62,14 @@ function drawShirt(parts, bases, k) {
       const [r, g, b] = hexToRgb(p.colour);
       for (let i = 0; i < w * h; i++) { layer.rgba[i * 4] = r; layer.rgba[i * 4 + 1] = g; layer.rgba[i * 4 + 2] = b; layer.rgba[i * 4 + 3] = 255; }
     }
-    if (p.pattern) over(layer, p.pattern.width === w ? p.pattern : scaleUp(p.pattern, k));
+    if (p.pattern) {
+      // Patterns are placed at the top-left of their part, as the template does; some
+      // socks pictures are shorter than the socks area and leave the colour below them.
+      const pat = p.pattern.width === w ? p.pattern : scaleUp(p.pattern, k);
+      const padded = { width: w, height: h, rgba: Buffer.alloc(w * h * 4) };
+      for (let y = 0; y < Math.min(h, pat.height); y++) pat.rgba.copy(padded.rgba, y * w * 4, y * pat.width * 4, (y + 1) * pat.width * 4);
+      over(layer, padded);
+    }
     over(layer, base);
     const outside = outsideMask(base);
     for (let i = 0; i < w * h; i++) if (outside[i]) layer.rgba[i * 4 + 3] = 0;

diff --git a/tools/import-kits.js b/tools/import-kits.js
@@ -524,7 +524,7 @@ async function patternPicture(part, patternName) {
   }
   try {
     const img = decodePng(fs.readFileSync(pngFile));
-    if (img.width !== part.width || img.height !== part.height) { console.warn('  Unexpected size for ' + file); return null; }
+    if (img.width !== part.width || img.height > part.height) { console.warn('  Unexpected size for ' + file + ' (' + img.width + ' by ' + img.height + ')'); return null; }
     return { img: img, credit: file + ' (' + meta.licence + (meta.artist ? ', ' + meta.artist : '') + ')' };
   } catch (e) { console.warn('  Could not read ' + file + ': ' + e.message); return null; }
 }
